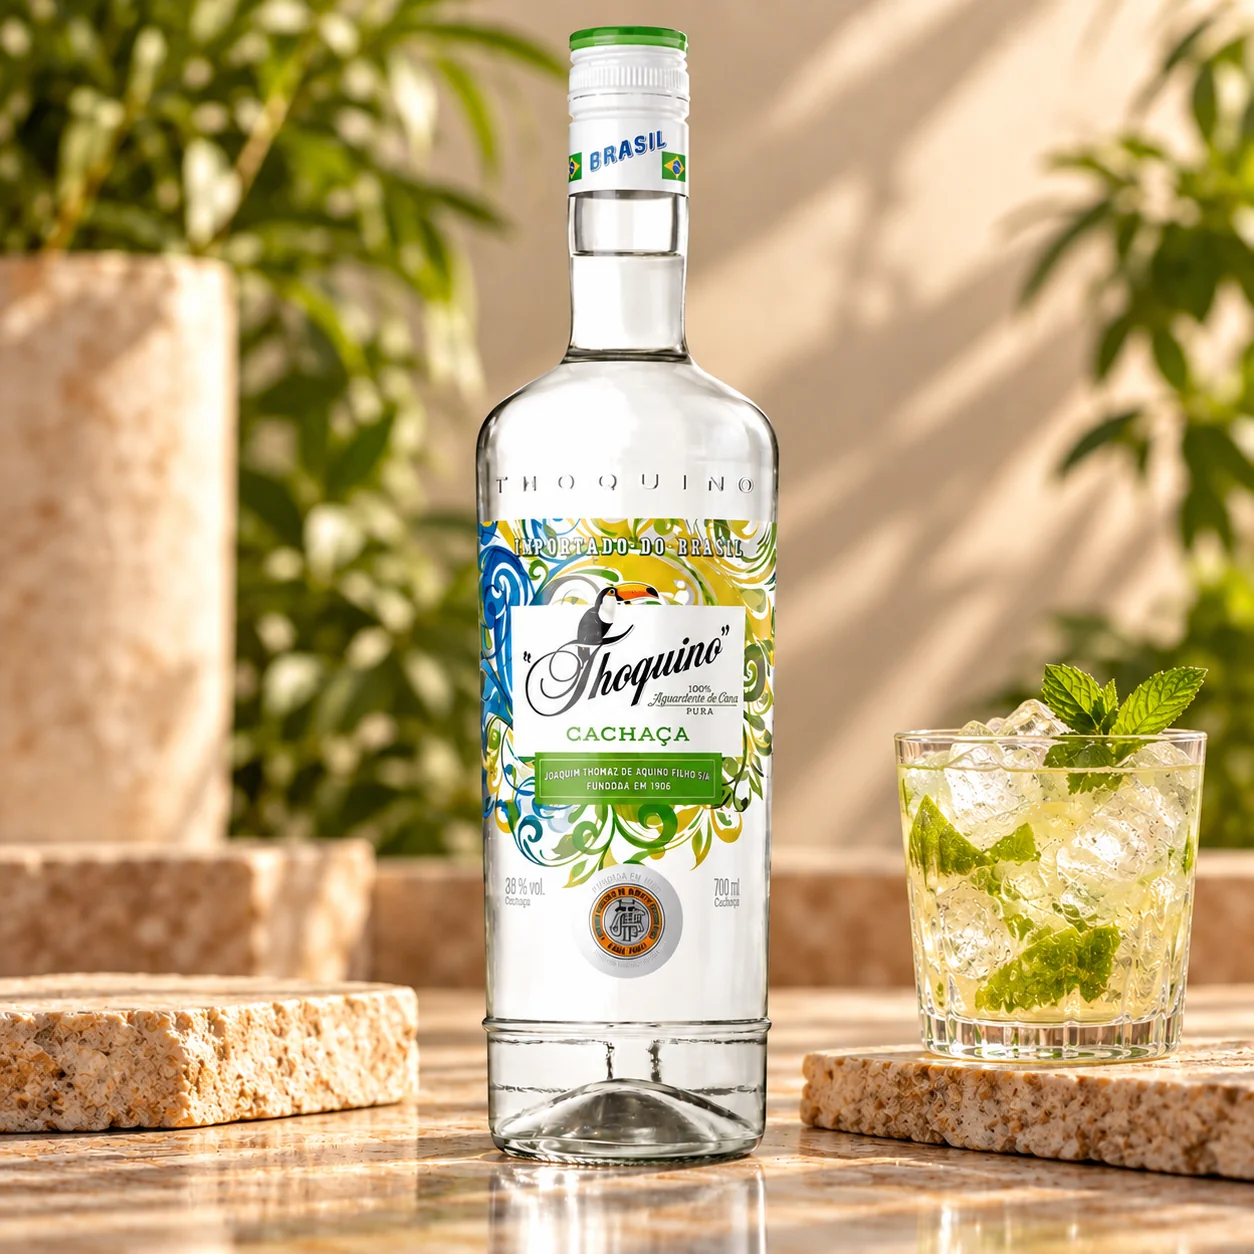
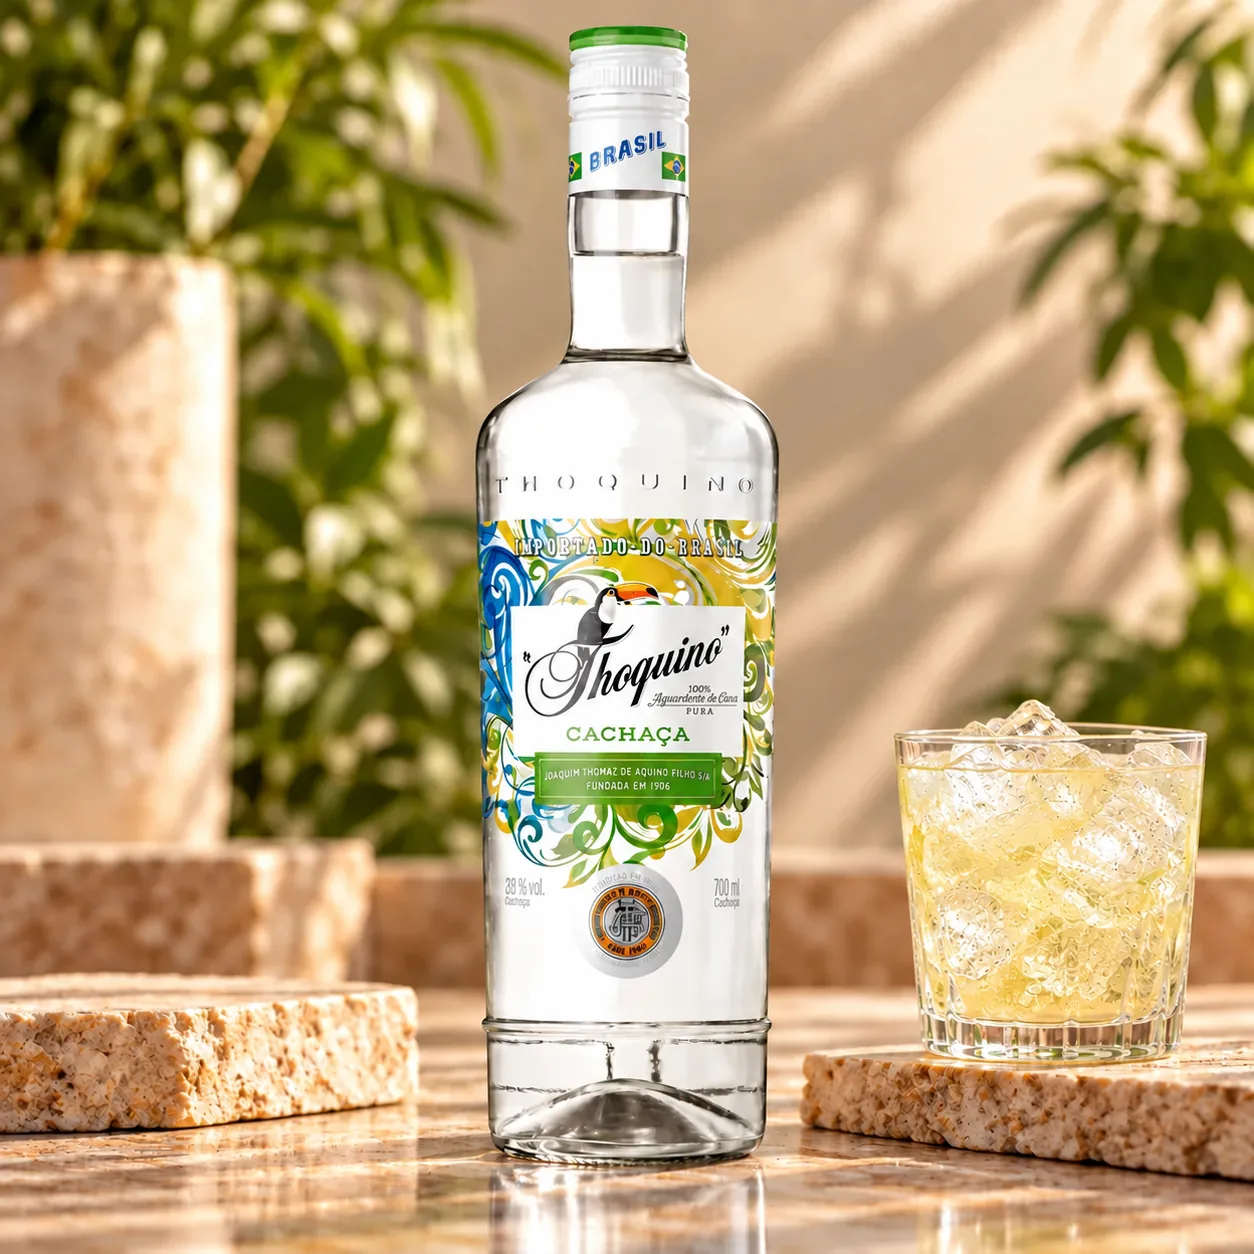
New Thoquino and apricot photos, and copy tweaks on Giffard and recipes
- Swap the Thoquino lifestyle shot for the new sunlit cocktail photo
- Use the new sunlit apricot photo in the Apricot Liqueur fruit section
- Caribbean Pineapple fruit fact reads "Caribbean pineapple"
- Lychee: "Fragrant" tagline, "notes" in the lede, fruit fact "Lychee"
- Recipes page: "About Brand" buttons and "list our brands"

diff --git a/src/data/giffardProducts.ts b/src/data/giffardProducts.ts
@@ -45,7 +45,7 @@ export const giffardProducts: HouseProduct[] = [
         "The local fruit is easy to spot: an orange skin splashed with bright red, small to medium in size (about 35 to 55 mm across), sweet, low in acidity and very aromatic. The fruit is fragile and picked by hand, and since February 2016 \"Abricots rouges du Roussillon\" has been a Protected Designation of Origin (AOP) covering the Rouge du Roussillon variety and a handful of related ones."
       ],
       "image": {
-        "src": "/images/brands/giffard/products/apricot-liqueur/apricot-tree.webp",
+        "src": "/images/brands/giffard/products/apricot-liqueur/apricots-sunlit-branch.webp",
         "alt": "Ripe apricots with a red blush hanging on a branch against a blue sky",
         "caption": "Ripe apricots with a red blush, the look of the Roussillon type"
       }
@@ -216,12 +216,6 @@ export const giffardProducts: HouseProduct[] = [
         "url": "https://commons.wikimedia.org/wiki/File:Apricots_7841.jpg"
       },
       {
-        "file": "/images/brands/giffard/products/apricot-liqueur/apricot-tree.webp",
-        "author": "Zeynel Cebeci",
-        "licence": "CC BY-SA 4.0",
-        "url": "https://commons.wikimedia.org/wiki/File:Apricot_fruits_on_tree,_Ni%C4%9Fde_2017-08-05_01-2.jpg"
-      },
-      {
         "file": "/images/brands/giffard/products/apricot-liqueur/canigou-massif.webp",
         "author": "Alan Mattingly",
         "licence": "CC0",
@@ -257,7 +251,7 @@ export const giffardProducts: HouseProduct[] = [
         "label": "Bottle"
       },
       {
-        "value": "Caribbean",
+        "value": "Caribbean pineapple",
         "label": "Fruit"
       },
       {
@@ -480,8 +474,8 @@ export const giffardProducts: HouseProduct[] = [
     "image": "/images/giffard-lychee-liqueur.webp",
     "imageAlt": "Giffard Lychee-Li lychee liqueur bottle with fresh lychees and blossom",
     "accent": "#f2a6b8",
-    "tagline": "Perfumed lychee with notes of rose",
-    "lede": "Lichi-Li is Giffard's lychee liqueur, a light pink pour with the floral, rose-scented perfume of fresh lychee. It is the bottle behind a proper Lychee Martini and a gentle, aromatic lift in spritzes and long drinks.",
+    "tagline": "Fragrant lychee with notes of rose",
+    "lede": "Lichi-Li is Giffard's lychee liqueur, a light pink pour with the floral, rose-scented notes of fresh lychee. It is the bottle behind a proper Lychee Martini and a gentle, aromatic lift in spritzes and long drinks.",
     "facts": [
       {
         "value": "18%",
@@ -492,7 +486,7 @@ export const giffardProducts: HouseProduct[] = [
         "label": "Bottle"
       },
       {
-        "value": "Asia (mainly Taiwan)",
+        "value": "Lychee",
         "label": "Fruit"
       },
       {

diff --git a/src/pages/Cocktails.tsx b/src/pages/Cocktails.tsx
@@ -41,7 +41,7 @@ export default function Cocktails() {
       <Hero
         eyebrow="Cocktail Corner"
         title={<>Recipes that <em className="gradient-text">earn</em> the back-bar.</>}
-        lede="Specs, builds and twists from across the 3Two1 portfolio - the signature serves we hand to bar teams when they list our houses."
+        lede="Specs, builds and twists from across the 3Two1 portfolio - the signature serves we hand to bar teams when they list our brands."
         actions={
           <>
             <Pill onClick={() => scrollToHash(`#${recipeHouses[0].id}`)}>Browse the recipes</Pill>
@@ -109,7 +109,7 @@ export default function Cocktails() {
                   {h.id === 'black-tears' && (
                     <Pill to="/brands/black-tears/cuba-libre" variant="more">The Cuba Libre, in full</Pill>
                   )}
-                  <Pill to={`/brands/${h.id}`} variant="more">Meet the house</Pill>
+                  <Pill to={`/brands/${h.id}`} variant="more">About Brand</Pill>
                 </div>
               </div>
             </Rise>

diff --git a/src/pages/brands/Thoquino.tsx b/src/pages/brands/Thoquino.tsx
@@ -279,7 +279,7 @@ export default function Thoquino() {
         </div>
         <div className={styles.storyGrid}>
           <motion.figure className={styles.storyFig} {...rise(0.1)}>
-            <img src="/images/thoquino-cachaca-brazil.webp" alt={`${d.name} with a lime and mint cocktail`} loading="lazy" />
+            <img src="/images/thoquino-cachaca-brazil.webp" alt={`${d.name} with a cachaça and lime cocktail over ice`} loading="lazy" />
             <figcaption>Campos · Rio de Janeiro</figcaption>
           </motion.figure>
           <div className={styles.storyText}>

diff --git a/src/sections/ServicesSection.tsx b/src/sections/ServicesSection.tsx
@@ -201,7 +201,7 @@ const SERVICES: Service[] = [
       'Cachaca pressed from fresh-cut sugarcane rather than molasses - grassy, bright and faintly wild. The backbone of a Caipirinha worth drinking.',
     shortDescription: 'Cachaça · Brazil',
     imageUrl: '/images/thoquino-cachaca-brazil.webp',
-    imageAlt: 'Thoquino cachaça bottle with a mint and lime cocktail on sunlit stone',
+    imageAlt: 'Thoquino cachaça bottle with a cachaça and lime cocktail over ice on sunlit stone',
     scene: true,
     country: 'Brazil',
     accent: '#59c97c',
